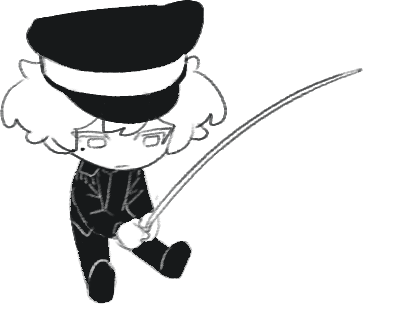
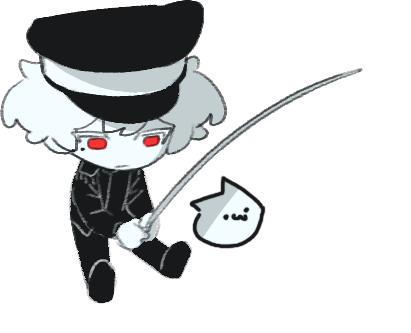
add morozovfish hover effect and logic

diff --git a/components/indexComponent.tsx b/components/indexComponent.tsx
@@ -363,6 +363,20 @@ export default function Home() {
     return () => window.removeEventListener("mousemove", move);
   }, [ready]);
 
+  const morozovFishingRef = useRef<HTMLImageElement | null>(null);
+  const [hooked, setHooked] = useState(false);
+  const fish = [
+    `morozovfish-1.png`
+  ]
+
+  const morozovOnHover = () => {
+    setHooked(true);
+  }
+
+  const morozovOffHover = () => {
+    setHooked(false);
+  }
+
   return (
     <div className="bg-[#17191a] min-w-screen min-h-screen align-center items-center flex flex-col relative">
       <div className="min-w-screen min-h-[40vh] flex justify-end align-center items-center top-0 flex-col">
@@ -627,15 +641,24 @@ export default function Home() {
                     <div className="flex flex-col items-center justify-center pt-24">
 
                       {/* games */}
-                      <NextLink href="/games" className="relative w-full aspect-square border-[#d8e0e3]/40 z-70 border">
-                        <img src="/images/morozovfishing.png" className="nonsel absolute bottom-0 z-80 scale-200 origin-[10%_50%] pointer-events-none"/>
+                      <NextLink
+                        href="/games" 
+                        className="relative w-full aspect-square border-[#d8e0e3]/40 z-70 border"
+                        onMouseOver={morozovOnHover}
+                        onMouseOut={morozovOffHover}
+                      >
+                        <img 
+                          src={hooked ? `/images/${randomizer(fish)}` : "/images/morozovfish-0.png"}
+                          ref={morozovFishingRef} 
+                          className="nonsel absolute bottom-0 z-80 scale-[250%] origin-[22%_60%] pointer-events-none"
+                        />
                       </NextLink>
                         <p className="z-100 pb-6 pt-2 text-center">games</p>
 
                       {/* gallery */}
                       <NextLink href="/gallery" className="relative w-full aspect-square border-[#d8e0e3]/40 z-60 border">
                         <Marquee speed={20} className="z-70">
-                          <img src="/images/gallery.png" className="nonsel pointer-events-none" />
+                          <img src="/images/gallery.png" className="nonsel pointer-events-none max-h-40" />
                         </Marquee>
                       </NextLink>
                         <p className="z-100 pb-6 pt-2 text-center">gallery</p>
@@ -689,6 +712,8 @@ export default function Home() {
               <p className="text-xs">● make assets for characters</p>
               <p className="text-xs">● add more to the about me page</p>
               <p className="text-xs">● set up pp newspaper submissions</p>
+              <p className="text-xs">● add shooting stars</p>
+              <p className="text-xs">● add lots of easter eggs</p>
               <p className="text-xs">● add mier widget. (potentially make it persist across all routes) ((use local storage for it))</p>
               <p className="text-xs">● optimize navmenu open/close timeline animations with ctx</p>
             </div>
